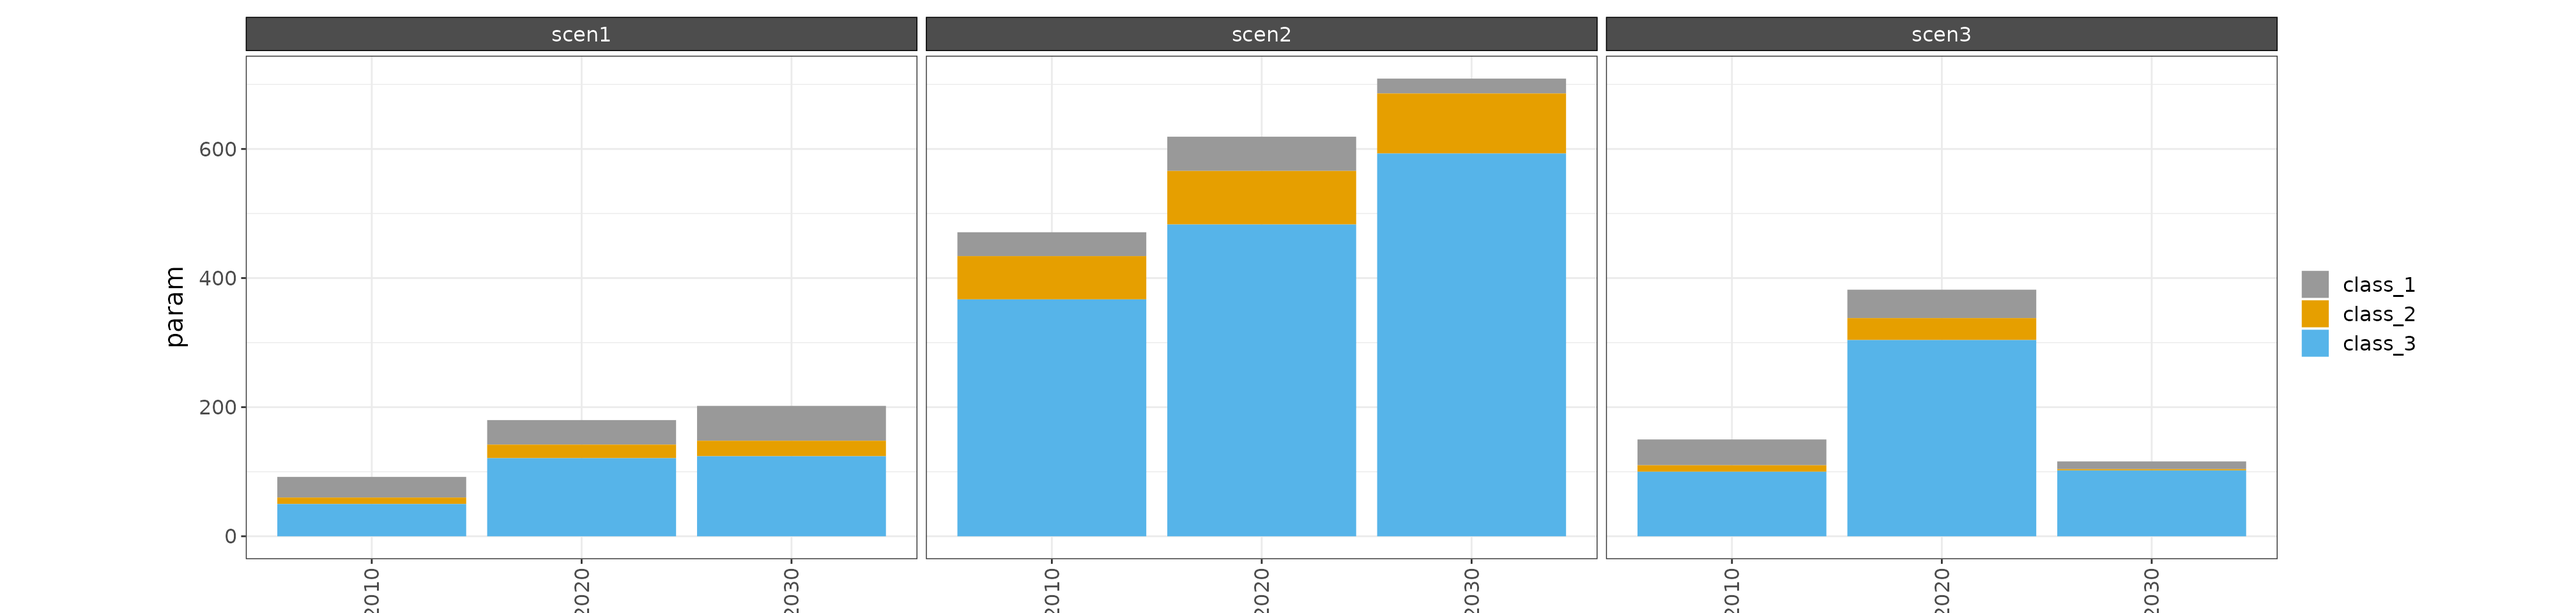
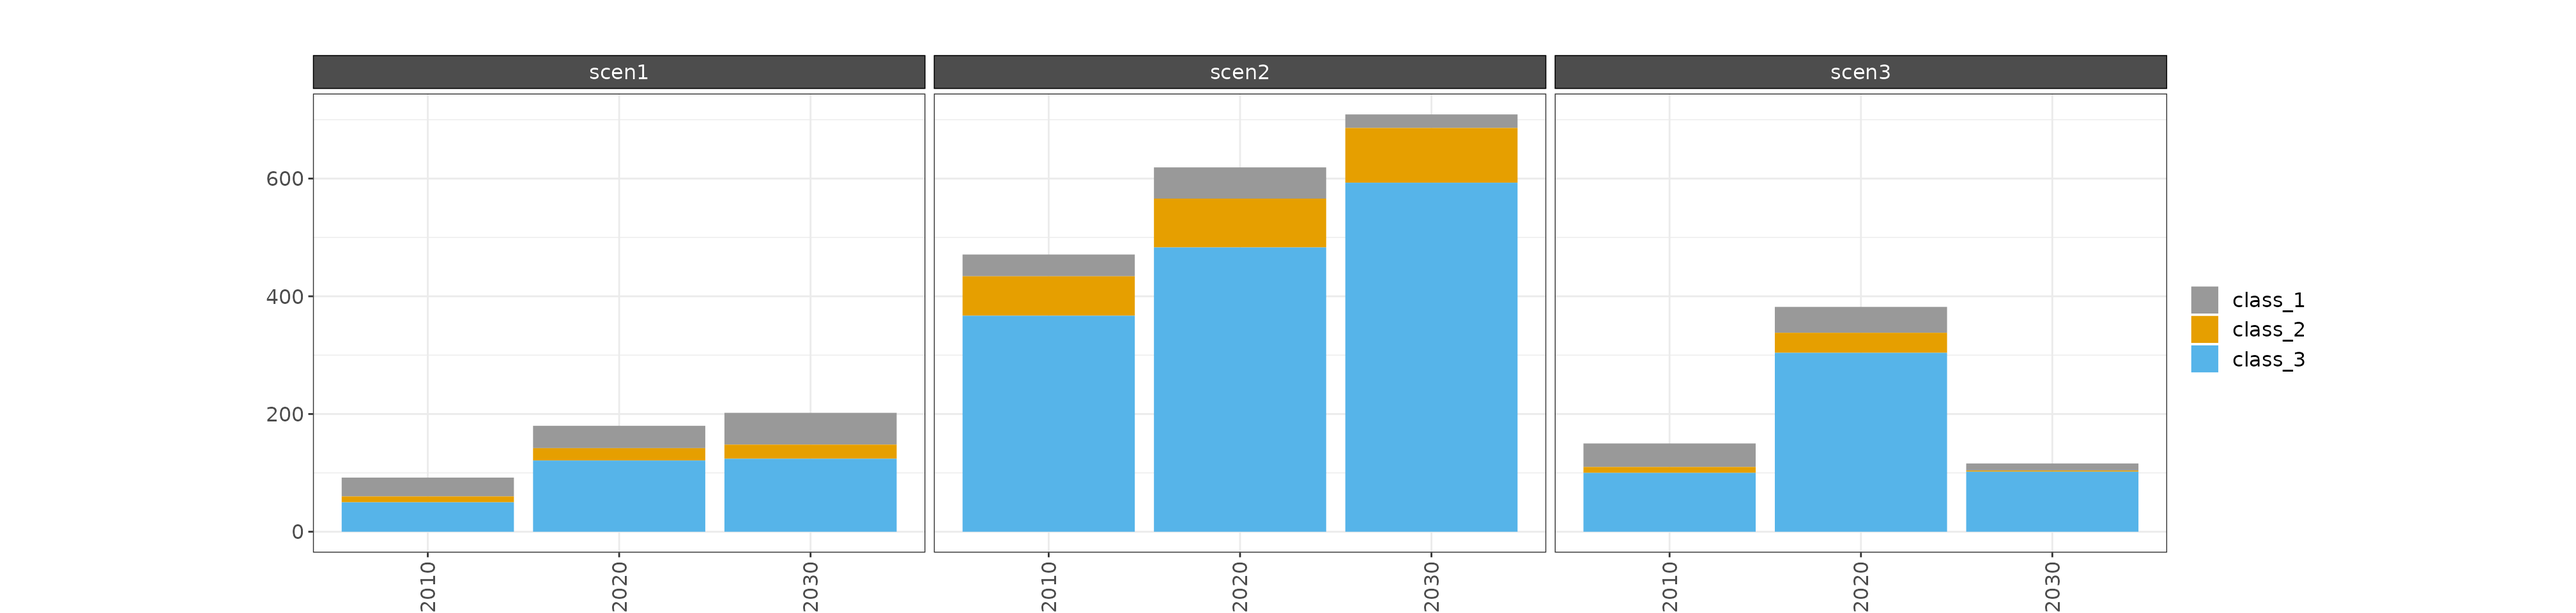
Built site for rchart: 1.0.0@b55b5d9

diff --git a/articles/vignette_userguide.html b/articles/vignette_userguide.html
@@ -212,9 +212,9 @@ brew install imagemagick@6</code></pre>
                             <span class="fl">40</span>, <span class="fl">44</span>, <span class="fl">12</span><span class="op">)</span><span class="op">)</span>
 
 <span class="va">my_chart</span> <span class="op">&lt;-</span> <span class="fu">rchart</span><span class="fu">::</span><span class="fu"><a href="../reference/chart.html">chart</a></span><span class="op">(</span><span class="va">data</span>, 
-                          append <span class="op">=</span> <span class="st">"_appendName"</span>, <span class="co"># Will apend names to each chart</span>
+                          append <span class="op">=</span> <span class="st">"_appendName"</span>, <span class="co"># Will append names to each chart</span>
                           folder <span class="op">=</span> <span class="st">"myfolder"</span>, <span class="co"># Will create a new folder if needed</span>
-                          save <span class="op">=</span> <span class="cn">T</span>, <span class="co"># This is True by default but can be turned off for rmakdown docs</span>
+                          save <span class="op">=</span> <span class="cn">T</span>, <span class="co"># This is True by default but can be turned off for rmarkdown docs</span>
                           show <span class="op">=</span> <span class="cn">T</span> <span class="co"># This is true by default but can be turned off to speed up processing and avoid charts displayed in console.</span>
                           <span class="op">)</span> 
 

diff --git a/reference/plot_reg_absolute.html b/reference/plot_reg_absolute.html
@@ -94,7 +94,6 @@
   theme_default <span class="op">=</span> <span class="fu">ggplot2</span><span class="fu">::</span><span class="fu"><a href="https://ggplot2.tidyverse.org/reference/ggtheme.html" class="external-link">theme_bw</a></span><span class="op">(</span><span class="op">)</span>,
   scales <span class="op">=</span> <span class="st">"free_y"</span>,
   size_text <span class="op">=</span> <span class="fl">15</span>,
-  breaks_x <span class="op">=</span> <span class="cn">NULL</span>,
   break_interval <span class="op">=</span> <span class="cn">NULL</span>
 <span class="op">)</span></code></pre></div>
     </div>
@@ -113,8 +112,6 @@
 <dd><p>Default = "free". Choose between "free", "free_y", "free_x", "fixed",</p></dd>
 <dt>size_text</dt>
 <dd><p>Default = 15. Text size</p></dd>
-<dt>breaks_x</dt>
-<dd><p>Default = NULL. Number of breaks for x.</p></dd>
 <dt>break_interval</dt>
 <dd><p>Default = NULL. Intervals between x breaks starting from first x point.</p></dd>
 </dl></div>

diff --git a/reference/plot_param_absolute.html b/reference/plot_param_absolute.html
@@ -94,7 +94,6 @@
   theme_default <span class="op">=</span> <span class="fu">ggplot2</span><span class="fu">::</span><span class="fu"><a href="https://ggplot2.tidyverse.org/reference/ggtheme.html" class="external-link">theme_bw</a></span><span class="op">(</span><span class="op">)</span>,
   ncol <span class="op">=</span> <span class="fl">3</span>,
   scales <span class="op">=</span> <span class="st">"free_y"</span>,
-  breaks_x <span class="op">=</span> <span class="cn">NULL</span>,
   break_interval <span class="op">=</span> <span class="cn">NULL</span>
 <span class="op">)</span></code></pre></div>
     </div>
@@ -113,8 +112,6 @@
 <dd><p>Default = 3. Number of columns.</p></dd>
 <dt>scales</dt>
 <dd><p>Default = "free". Choose between "free", "free_y", "free_x", "fixed"</p></dd>
-<dt>breaks_x</dt>
-<dd><p>Default = NULL. Number of breaks for x.</p></dd>
 <dt>break_interval</dt>
 <dd><p>Default = NULL. Intervals between x breaks starting from first x point.</p></dd>
 </dl></div>

diff --git a/reference/plot_param_difference.html b/reference/plot_param_difference.html
@@ -97,7 +97,6 @@
   facet_label_diff <span class="op">=</span> <span class="st">"Difference"</span>,
   diff_text <span class="op">=</span> <span class="cn">NULL</span>,
   scales <span class="op">=</span> <span class="st">"free"</span>,
-  breaks_x <span class="op">=</span> <span class="cn">NULL</span>,
   break_interval <span class="op">=</span> <span class="cn">NULL</span>
 <span class="op">)</span></code></pre></div>
     </div>
@@ -122,8 +121,6 @@
 <dd><p>Default = NULL. Text to remove from diff scenario names.</p></dd>
 <dt>scales</dt>
 <dd><p>Default = "free". Choose between "free", "free_y", "free_x", "fixed"</p></dd>
-<dt>breaks_x</dt>
-<dd><p>Default = NULL. Number of breaks for x.</p></dd>
 <dt>break_interval</dt>
 <dd><p>Default = NULL. Intervals between x breaks starting from first x point.</p></dd>
 </dl></div>

diff --git a/reference/plot_class_absolute.html b/reference/plot_class_absolute.html
@@ -94,7 +94,6 @@
   ncol <span class="op">=</span> <span class="fl">3</span>,
   scales <span class="op">=</span> <span class="st">"free_y"</span>,
   size_text <span class="op">=</span> <span class="fl">15</span>,
-  breaks_x <span class="op">=</span> <span class="cn">NULL</span>,
   break_interval <span class="op">=</span> <span class="cn">NULL</span>
 <span class="op">)</span></code></pre></div>
     </div>
@@ -113,8 +112,6 @@
 <dd><p>Default = "free". Choose between "free", "free_y", "free_x", "fixed"</p></dd>
 <dt>size_text</dt>
 <dd><p>Default = 15. Text size</p></dd>
-<dt>breaks_x</dt>
-<dd><p>Default = NULL. Number of breaks for x.</p></dd>
 <dt>break_interval</dt>
 <dd><p>Default = NULL. Intervals between x breaks starting from first x point.</p></dd>
 </dl></div>

diff --git a/reference/plot_class_difference.html b/reference/plot_class_difference.html
@@ -97,7 +97,6 @@
   scales <span class="op">=</span> <span class="st">"free"</span>,
   diff_type <span class="op">=</span> <span class="st">"bar"</span>,
   size <span class="op">=</span> <span class="fl">1.5</span>,
-  breaks_x <span class="op">=</span> <span class="cn">NULL</span>,
   break_interval <span class="op">=</span> <span class="cn">NULL</span>
 <span class="op">)</span></code></pre></div>
     </div>
@@ -122,8 +121,6 @@
 <dd><p>Default = "bar". Choose between "bar" or "line"</p></dd>
 <dt>size</dt>
 <dd><p>Default = 1.5. Line size</p></dd>
-<dt>breaks_x</dt>
-<dd><p>Default = NULL. Number of breaks for x.</p></dd>
 <dt>break_interval</dt>
 <dd><p>Default = NULL. Intervals between x breaks starting from first x point.</p></dd>
 </dl></div>

diff --git a/reference/chart.html b/reference/chart.html
@@ -114,7 +114,6 @@
   width <span class="op">=</span> <span class="cn">NULL</span>,
   height <span class="op">=</span> <span class="cn">NULL</span>,
   append <span class="op">=</span> <span class="st">""</span>,
-  breaks_x <span class="op">=</span> <span class="cn">NULL</span>,
   break_interval <span class="op">=</span> <span class="cn">NULL</span>
 <span class="op">)</span></code></pre></div>
     </div>
@@ -174,8 +173,6 @@
 <dd><p>Default = NULL</p></dd>
 <dt>append</dt>
 <dd><p>Default = ""</p></dd>
-<dt>breaks_x</dt>
-<dd><p>Default = NULL. Number of breaks for x.</p></dd>
 <dt>break_interval</dt>
 <dd><p>Default = NULL. Intervals between x breaks starting from first x point.</p></dd>
 </dl></div>
